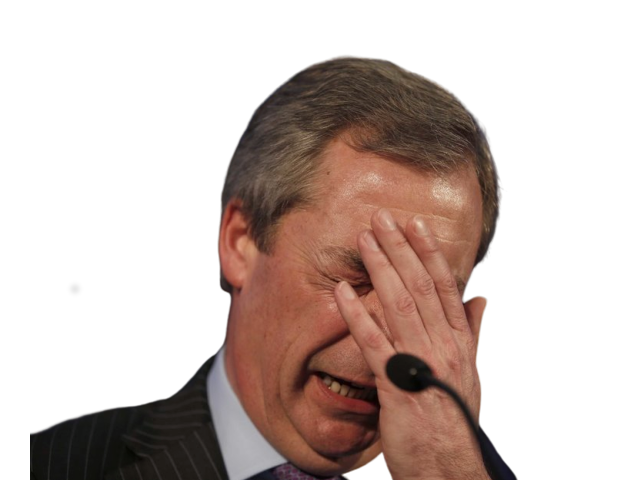
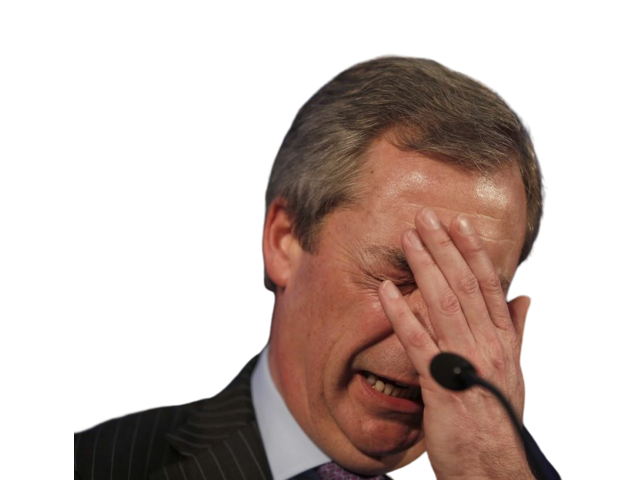
📦 NEW: Added about info, mobile optimisation

diff --git a/src/components/MainForm.vue b/src/components/MainForm.vue
@@ -1,46 +1,44 @@
 <template>
-  <div class="container">
-    <div class="columns is-mobile">
-      <div
-        class="form column is-half-tablet is-offset-one-quarter-tablet is-10-mobile is-offset-1-mobile"
-      >
-        <div class="field">
-          <label for="postcode" class="label is-large">Postcode</label>
-          <div class="control">
-            <input
-              v-model="postcode"
-              class="input is-large"
-              id="postcode"
-              type="text"
-            />
+  <section class="section central has-background-light">
+    <div class="container">
+      <div class="columns is-mobile">
+        <div
+          class="form column is-half-tablet is-offset-one-quarter-tablet is-10-mobile is-offset-1-mobile"
+        >
+          <div class="field">
+            <label for="postcode" class="label is-large">Postcode</label>
+            <div class="control">
+              <input
+                v-model="postcode"
+                class="input is-large"
+                id="postcode"
+                type="text"
+              />
+            </div>
           </div>
         </div>
       </div>
+
+      <ApolloQuery
+        :query="require('../graphql/Region.gql')"
+        :variables="{ postcode }"
+      >
+        <template slot-scope="{ result: { loading, error, data } }">
+          <Result :loading="loading" :region="data ? data.region : {}" />
+        </template>
+      </ApolloQuery>
     </div>
-
-    <ApolloQuery
-      :query="require('../graphql/Region.gql')"
-      :variables="{ postcode }"
-    >
-      <template slot-scope="{ result: { loading, error, data } }">
-        <div v-if="loading" class="loading apollo">Loading...</div>
-
-        <h2 v-else-if="data" class="subtitle has-text-weight-bold">
-          <span v-if="data.region.isNigel">
-            Sadly... Nigel Farage IS your MEP
-          </span>
-          <span v-else>
-            Thankfully... Nigel Farage is NOT your MEP
-          </span>
-        </h2>
-      </template>
-    </ApolloQuery>
-  </div>
+  </section>
 </template>
 
 <script>
+import Result from './Result.vue';
+
 export default {
   name: 'MainForm',
+  components: {
+    Result
+  },
   data() {
     return {
       postcode: ''
@@ -49,4 +47,9 @@ export default {
 };
 </script>
 
-<style scoped></style>
+<style lang="scss" scoped>
+.central {
+  min-height: 55%;
+  flex: 1;
+}
+</style>

diff --git a/src/components/About.vue b/src/components/About.vue
@@ -1,0 +1,78 @@
+<template>
+  <section class="section has-background-dark has-text-white about">
+    <h2 class="subtitle has-text-white" @click="toggleContent">
+      About this site
+    </h2>
+    <div
+      class="about__content"
+      :class="{ 'about__content--visible': showContent }"
+    >
+      <p class="content">
+        I made this site because Nigel Farage is my MEP, and he's
+        <em class="is-italic">absolutely terrible at it</em>. This year's
+        European Parliament election is probably the most important one ever run
+        in the UK, and Nigel doesn't deserve to keep his job.
+      </p>
+      <p class="content">
+        This site doesn't use cookies or store any of your personal information.
+        Your postcode is used to search data generously provided by
+        <a href="https://www.mysociety.org/">mySociety</a> and
+        <a href="https://wheredoivote.co.uk/">Where Do I Vote</a>.
+      </p>
+      <p class="content github-buttons">
+        <a
+          class="github-button"
+          href="https://github.com/i-hardy"
+          aria-label="Follow me on GitHub"
+          >Follow</a
+        >
+        <a
+          class="github-button"
+          href="https://github.com/i-hardy/anyonebutnigel"
+          data-icon="octicon-star"
+          aria-label="Star i-hardy/anyonebutnigel on GitHub"
+          >Star</a
+        >
+      </p>
+    </div>
+  </section>
+</template>
+
+<script>
+export default {
+  name: 'About',
+  data() {
+    return {
+      showContent: false
+    };
+  },
+  methods: {
+    toggleContent() {
+      this.showContent = !this.showContent;
+    }
+  }
+};
+</script>
+
+<style lang="scss" scoped>
+@import '~sass-mq/mq';
+
+.about {
+  @include mq($from: mobile, $until: tablet) {
+    padding-bottom: 10px;
+    &__content {
+      display: none;
+      &--visible {
+        display: block;
+      }
+    }
+  }
+}
+
+.github-buttons {
+  a,
+  span {
+    margin: 0 5px;
+  }
+}
+</style>

diff --git a/src/App.vue b/src/App.vue
@@ -1,33 +1,42 @@
 <template>
   <main id="app" class="has-background-light">
-    <section class="hero is-bold is-dark">
+    <section class="hero is-bold is-primary">
       <div class="hero-body is-medium is-paddingless level">
         <figure class="image">
-          <img alt="Nigel Farage" src="./assets/sorry.png" />
+          <img
+            alt="Nigel Farage"
+            srcset="./assets/sorry-mobile.png 320w, ./assets/sorry.png 640w"
+            sizes="(max-width: 480px) 320px,
+            640px"
+            src="./assets/sorry-mobile.png"
+          />
         </figure>
         <div class="container">
-          <h1 class="title">
+          <h1
+            class="title has-text-warning is-size-1 is-size-2-mobile has-text-weight-bold"
+          >
             Is Nigel Farage your MEP?
           </h1>
-          <h2 class="subtitle">
+          <h2 class="subtitle has-text-warning is-size-3 is-size-4-mobile">
             Enter your postcode to find out
           </h2>
         </div>
       </div>
     </section>
-    <section class="section">
-      <MainForm />
-    </section>
+    <MainForm />
+    <About />
   </main>
 </template>
 
 <script>
 import MainForm from './components/MainForm.vue';
+import About from './components/About.vue';
 
 export default {
   name: 'app',
   components: {
-    MainForm
+    MainForm,
+    About
   }
 };
 </script>
@@ -38,18 +47,15 @@ body {
   height: 100%;
 }
 
-body {
-  display: flex;
-  flex-direction: column;
-}
-
 #app {
   font-family: 'Lato', Helvetica, Arial, sans-serif;
   -webkit-font-smoothing: antialiased;
   -moz-osx-font-smoothing: grayscale;
   text-align: center;
   color: #2c3e50;
-  flex: 1;
+  height: 100%;
+  display: flex;
+  flex-direction: column;
 }
 
 h1,
@@ -66,5 +72,9 @@ h5 {
   img {
     max-width: 640px;
   }
+}
+
+.hero-body .container {
+  padding: 30px 0 20px;
 }
 </style>

diff --git a/src/components/Result.vue b/src/components/Result.vue
@@ -1,0 +1,49 @@
+<template>
+  <section class="section is-paddingless">
+    <Loader v-if="loading" />
+    <div v-else-if="region.MEPs" class="container is-paddingless">
+      <h2 class="subtitle is-size-4 has-text-weight-bold">
+        <span v-if="region.isNigel">
+          Sadly... Nigel Farage IS your MEP
+        </span>
+        <span v-else>
+          Thankfully... Nigel Farage is NOT your MEP
+        </span>
+      </h2>
+      <div class="columns">
+        <div class="column">
+          <h3 class="is-size-5">Who are my MEPs?</h3>
+        </div>
+        <div class="column">
+          <h3 class="is-size-5">How do I vote for anyone but Nigel?</h3>
+        </div>
+        <div class="column">
+          <h3 class="is-size-5">What's so bad about Nigel Farage?</h3>
+        </div>
+      </div>
+    </div>
+  </section>
+</template>
+
+<script>
+import Loader from './Loader.vue';
+
+export default {
+  name: 'Result',
+  components: {
+    Loader
+  },
+  props: {
+    region: {
+      type: Object,
+      required: true
+    },
+    loading: {
+      type: Boolean,
+      default: true
+    }
+  }
+};
+</script>
+
+<style scoped></style>

diff --git a/src/components/Loader.vue b/src/components/Loader.vue
@@ -1,0 +1,51 @@
+<template>
+  <div class="query-loader">
+    <div></div>
+    <div></div>
+    <div></div>
+  </div>
+</template>
+
+<script>
+export default {};
+</script>
+
+<style lang="scss" scoped>
+.query-loader {
+  display: inline-block;
+  position: relative;
+  width: 64px;
+  height: 64px;
+}
+.query-loader div {
+  display: inline-block;
+  position: absolute;
+  left: 6px;
+  width: 13px;
+  background: lighten($color: #8e8c84, $amount: 25%);
+  animation: load 1.2s cubic-bezier(0, 0.5, 0.5, 1) infinite;
+}
+.query-loader div:nth-child(1) {
+  left: 6px;
+  animation-delay: -0.24s;
+}
+.query-loader div:nth-child(2) {
+  left: 26px;
+  animation-delay: -0.12s;
+}
+.query-loader div:nth-child(3) {
+  left: 45px;
+  animation-delay: 0;
+}
+@keyframes load {
+  0% {
+    top: 6px;
+    height: 51px;
+  }
+  50%,
+  100% {
+    top: 19px;
+    height: 26px;
+  }
+}
+</style>

diff --git a/src/assets/scss/_variables.scss b/src/assets/scss/_variables.scss
@@ -9,19 +9,19 @@ $grey-lighter: #e6e1d7;
 
 $white-ter: #f8f5f0;
 
-$orange: #f47c3c;
+$yellow: #ffcc00;
 $green: #93c54b;
 $blue: #29abe0;
 $red: #d9534f;
 
-$primary: #325d88 !default;
-$warning: $orange;
+$primary: #003399 !default;
+$warning: $yellow;
 $warning-invert: #fff;
 
 $family-sans-serif: 'Lato', Helvetica, Arial, sans-serif;
 $body-size: 14px;
 
-$link: #8E8C84;
+$link: #8e8c84;
 
 $pagination-background-color: $grey-lighter;
 

diff --git a/public/index.html b/public/index.html
@@ -14,5 +14,6 @@
     </noscript>
     <main id="app"></main>
     <!-- built files will be auto injected -->
+    <script async defer src="https://buttons.github.io/buttons.js"></script>
   </body>
 </html>
